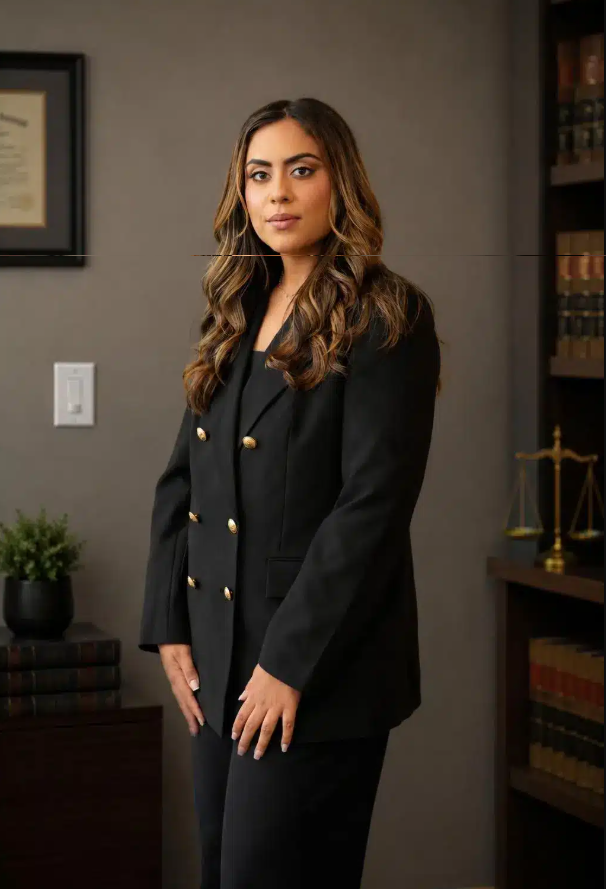
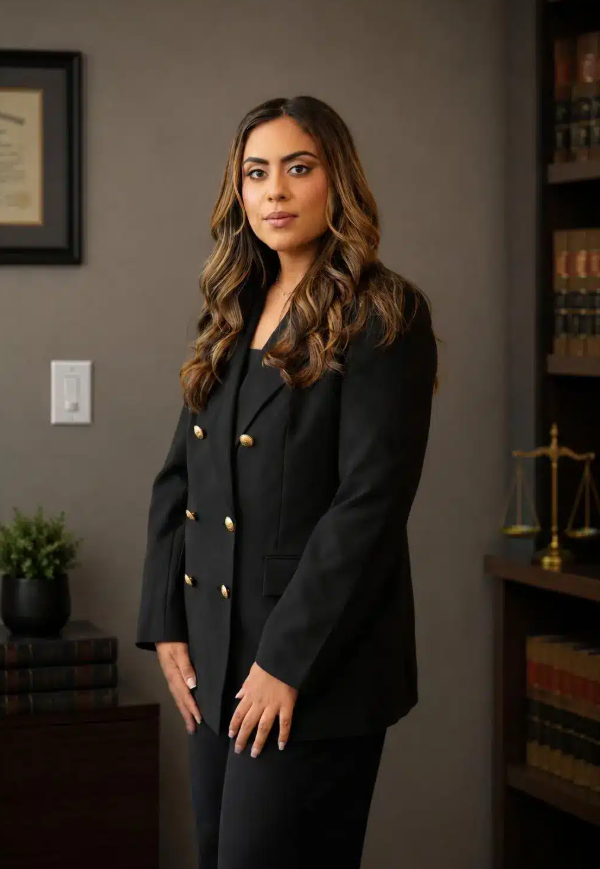
improvement

diff --git a/src/styles/theme.css b/src/styles/theme.css
@@ -40,6 +40,9 @@
 
 html {
   scroll-behavior: smooth;
+  width: 100%;
+  max-width: 100%;
+  overflow-x: hidden;
 }
 
 body {
@@ -47,6 +50,8 @@ body {
   color: #33302b;
   background: #fff;
   overflow-x: hidden;
+  width: 100%;
+  max-width: 100%;
 }
 
 /* ---------- Wider container, small horizontal whitespace ---------- */
@@ -1116,6 +1121,7 @@ h1, h2, h3, h4, h5, h6,
 .hl-attorney-profile-body { max-width: 46rem; }
 .hl-attorney-hero-sub { color: var(--hl-gold); font-weight: 600; font-size: 1.02rem; }
 .hl-attorney-profile-desc { font-size: 1.08rem; line-height: 1.75; }
+.hl-profile-biography { padding-top: clamp(2rem, 4vw, 3.5rem) !important; }
 
 /* Attorney sidebar */
 .hl-side-consult { background: var(--hl-dark); border-top: 3px solid var(--hl-gold); padding: 1.75rem; }

diff --git a/src/pages/AttorneyProfile.jsx b/src/pages/AttorneyProfile.jsx
@@ -80,7 +80,7 @@ export default function AttorneyProfile() {
       </section>
 
       {/* Body + sidebar */}
-      <section className="hl-section pt-0">
+      <section className="hl-section pt-0 hl-profile-biography">
         <div className="hl-container">
           <div className="row g-5">
             {/* Main column */}
